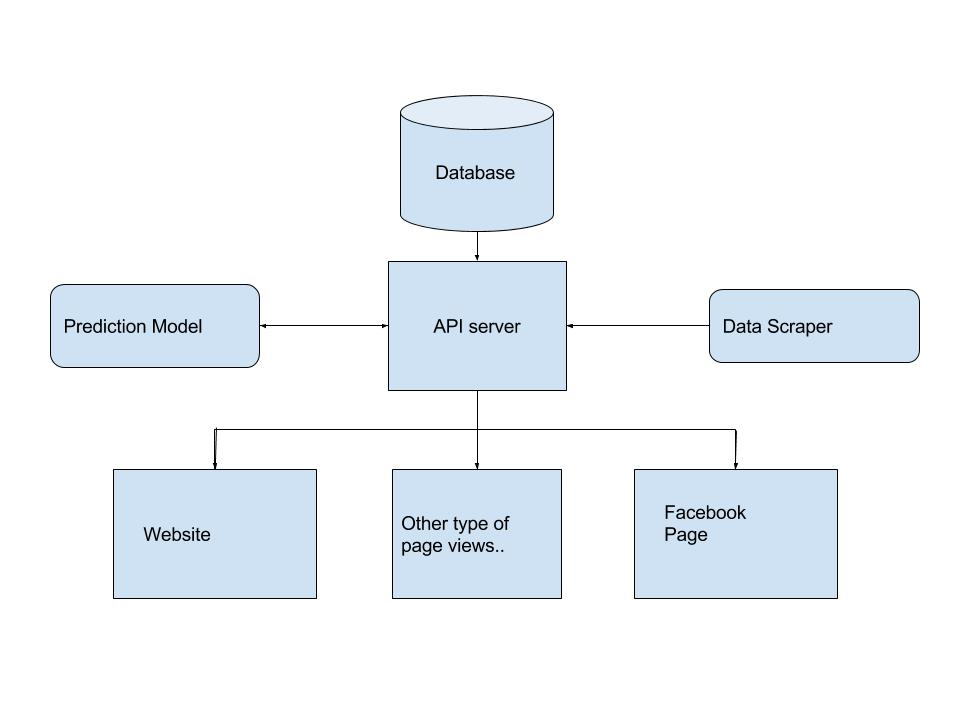
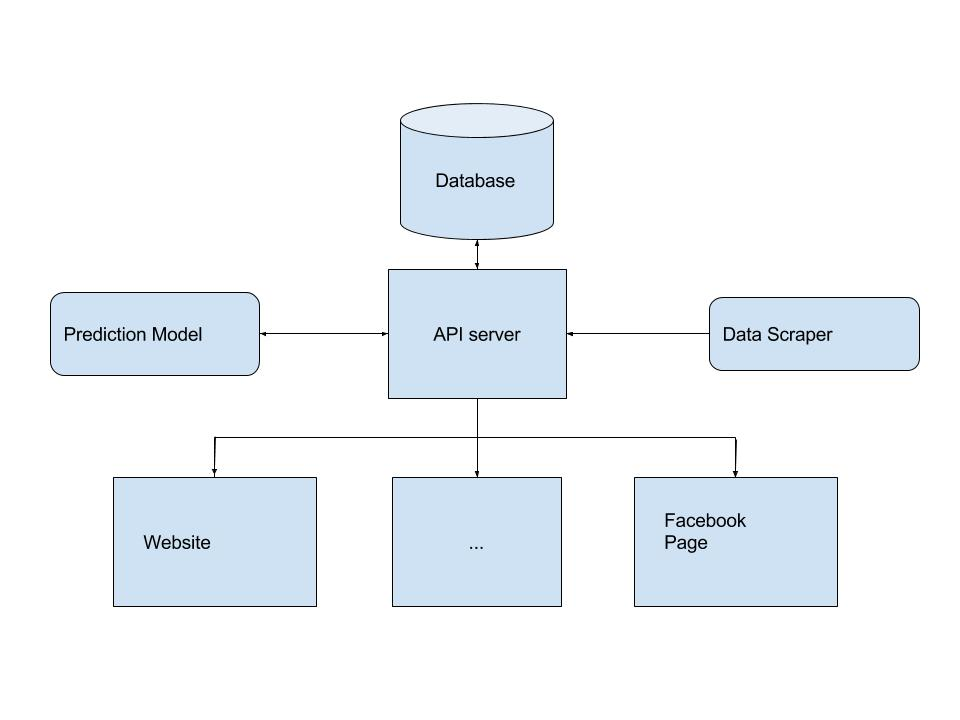
README updated.

diff --git a/README.md b/README.md
@@ -3,6 +3,8 @@ A micro REST API server that serves KBO prediction-related data
 
 # Service Diagram
 
+An arrow indicates the flow of data. For example, the data scraper component scrapes websites to get raw data and dumps them into the system using the REST api server. Similarly, the prediction model component reads in raw data from the API server, computes prediction results and stores them back into the system via the REST api.  
+
 ![Overview of components](../master/doc/diagram.jpg)
 
 
